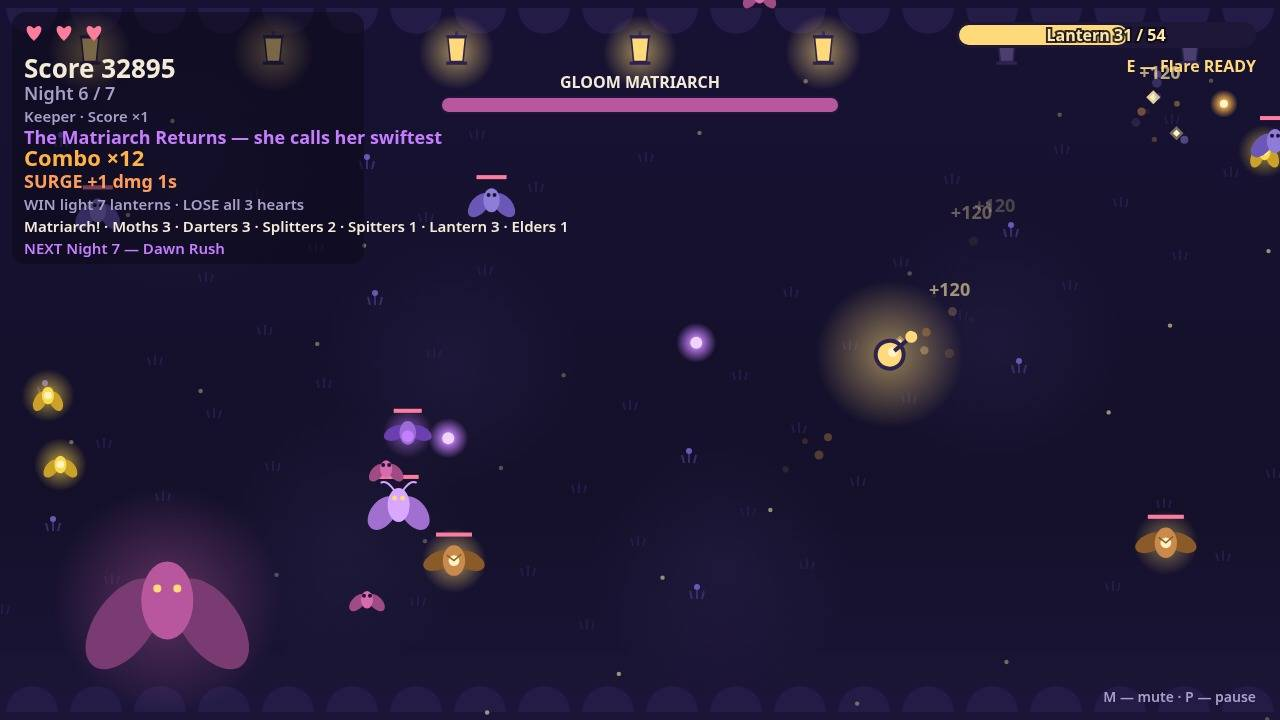
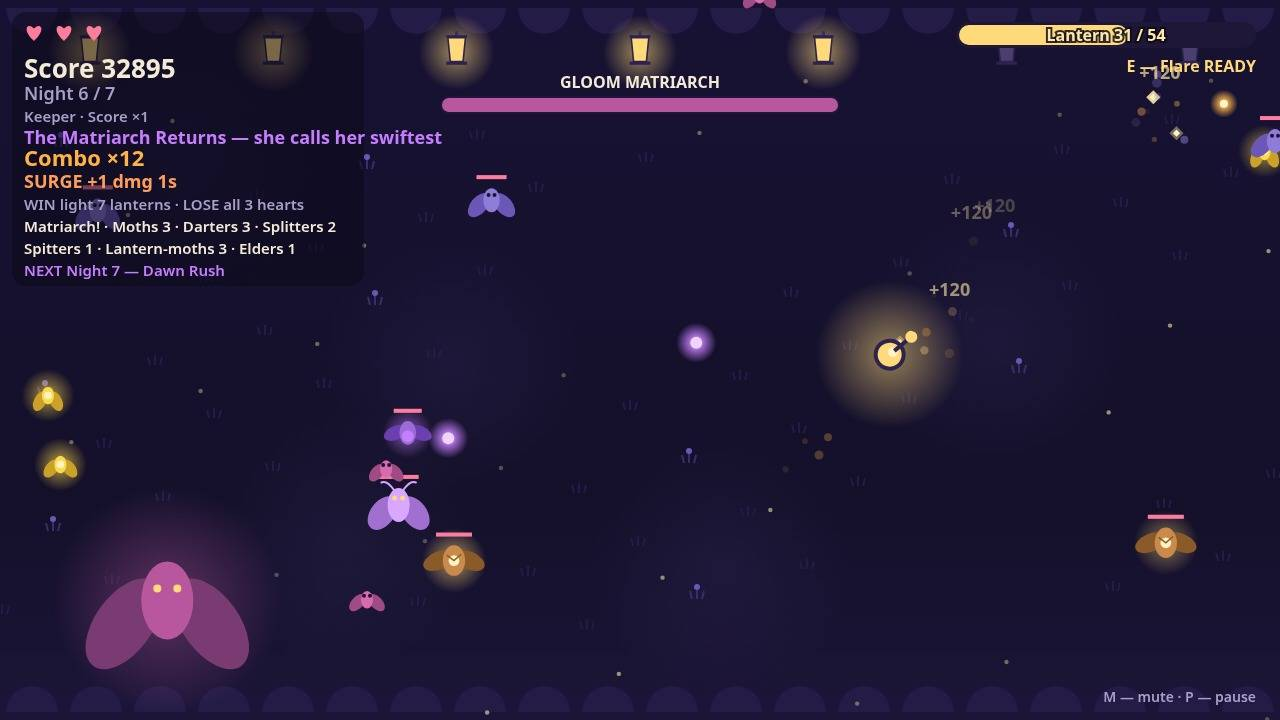
Quality round 8: feat progress on victory, census wrap + Lantern-moths, stale texts off end screens, richer staged seeds (title 168, win 172)

Changed region(s): [[0.0, 0.3361, 0.2188, 0.3972], [0.25, 0.3056, 0.4375, 0.3361]]

diff --git a/game/src/render.js b/game/src/render.js
@@ -485,7 +485,7 @@ export function createRenderer(canvas) {
     ctx.restore();
   }
 
-  function drawWorld(state, time) {
+  function drawWorld(state, time, showTexts = true) {
     drawGarden(state, time);
     for (const s of state.shards) {
       const tw = 0.7 + 0.3 * Math.sin(time * 6 + s.x);
@@ -549,12 +549,19 @@ export function createRenderer(canvas) {
       ctx.stroke();
     }
     ctx.globalAlpha = 1;
-    ctx.textAlign = 'center';
-    for (const t of state.texts) {
-      ctx.globalAlpha = Math.max(0, Math.min(1, t.life));
-      text(t.text, t.x, t.y, t.color, F(700, 18));
+    // Floating score texts belong to live play (and to the title's LIVE
+    // window, which draws the world with showTexts on). On the end screens
+    // they are stale leftovers from the moment the night cleared or dawn
+    // broke — a "FLAWLESS! +250" used to print half-clipped over the upgrade
+    // panel and the victory panel — so those screens pass showTexts=false.
+    if (showTexts) {
+      ctx.textAlign = 'center';
+      for (const t of state.texts) {
+        ctx.globalAlpha = Math.max(0, Math.min(1, t.life));
+        text(t.text, t.x, t.y, t.color, F(700, 18));
+      }
+      ctx.globalAlpha = 1;
     }
-    ctx.globalAlpha = 1;
   }
 
   function drawHearts(state) {
@@ -581,14 +588,29 @@ export function createRenderer(canvas) {
     }
   }
 
-  /** What is alive in the garden right now, by kind: "Moths 8 · Darters 2 · Wisps 1". */
-  function censusLine(state) {
-    const names = { moth: 'Moths', darter: 'Darters', wisp: 'Wisps', splitter: 'Splitters', spitter: 'Spitters', 'lantern-moth': 'Lantern', mote: 'Motes', elder: 'Elders' };
+  /** What is alive in the garden right now, by kind: "Moths 8 · Darters 2 · Wisps 1".
+   * Wrapped to lines that fit the HUD panel: the full census of a busy night
+   * measures ~545px at 15px type against a 352px panel, so it used to spill
+   * ~200px past the panel edge onto the dark field. The lantern-moth is
+   * named in full ("Lantern-moths") — the bare "Lantern" read as a count of
+   * lanterns next to the Lantern meter. */
+  function censusLines(state) {
+    const names = { moth: 'Moths', darter: 'Darters', wisp: 'Wisps', splitter: 'Splitters', spitter: 'Spitters', 'lantern-moth': 'Lantern-moths', mote: 'Motes', elder: 'Elders' };
     const counts = {};
     for (const m of state.moths) counts[m.kind] = (counts[m.kind] || 0) + 1;
     const parts = Object.keys(names).filter((k) => counts[k]).map((k) => `${names[k]} ${counts[k]}`);
     if (state.boss) parts.unshift('Matriarch!');
-    return parts.length ? parts.join(' · ') : 'Garden clear';
+    if (!parts.length) return ['Garden clear'];
+    ctx.font = F(600, 15);
+    const lines = [];
+    let cur = '';
+    for (const p of parts) {
+      const next = cur ? `${cur} · ${p}` : p;
+      if (cur && ctx.measureText(next).width > 320) { lines.push(cur); cur = p; }
+      else cur = next;
+    }
+    if (cur) lines.push(cur);
+    return lines;
   }
 
   /** What comes after this night. */
@@ -619,7 +641,7 @@ export function createRenderer(canvas) {
     if (state.orbiters.length > 0) lines.push({ str: `Orbit ×${state.orbiters.length}`, color: '#ffd97a', font: F(700, 18) });
     if (state.night === NIGHTS_TO_WIN) lines.push({ str: 'DAWN RUSH — hold the line!', color: '#ff6b6b', font: F(700, 18) });
     lines.push({ str: state.endless ? `Endless — survive · LOSE all ${state.player.maxHearts} hearts` : `WIN light 7 lanterns · LOSE all ${state.player.maxHearts} hearts`, color: PALETTE.muted, font: F(600, 15) });
-    lines.push({ str: censusLine(state), color: PALETTE.text, font: F(600, 15) });
+    for (const s of censusLines(state)) lines.push({ str: s, color: PALETTE.text, font: F(600, 15) });
     lines.push({ str: nextLine(state), color: '#c77dff', font: F(600, 15) });
     // A dim panel keeps the left HUD readable over the keeper's glow.
     fillRound(12, 12, 352, 46 + lines.length * 22 + 8, 14, 'rgba(13, 10, 26, 0.55)');
@@ -693,7 +715,7 @@ export function createRenderer(canvas) {
   }
 
   function drawTitle(state, best, records, time) {
-    drawWorld(state, time);
+    drawWorld(state, time, false);
     dim(0.55);
     // Left: the manual.
     panel(TITLE_PANEL.x, TITLE_PANEL.y, TITLE_PANEL.w, TITLE_PANEL.h, 'rgba(30, 23, 56, 0.88)');
@@ -826,7 +848,7 @@ export function createRenderer(canvas) {
   }
 
   function drawUpgrade(state, best) {
-    drawWorld(state, 0);
+    drawWorld(state, 0, false);
     dim();
     ctx.textAlign = 'center';
     const grade = state.grades[state.night] || '—';
@@ -886,7 +908,7 @@ export function createRenderer(canvas) {
   }
 
   function drawPaused(state) {
-    drawWorld(state, 0);
+    drawWorld(state, 0, false);
     dim();
     ctx.textAlign = 'center';
     text('Paused', FIELD.width / 2, 330, PALETTE.text, F(700, 52));
@@ -916,7 +938,7 @@ export function createRenderer(canvas) {
   }
 
   function drawOver(state, best) {
-    drawWorld(state, 0);
+    drawWorld(state, 0, false);
     dim();
     panel(FIELD.width / 2 - 300, 160, 600, 380);
     ctx.textAlign = 'center';
@@ -941,7 +963,7 @@ export function createRenderer(canvas) {
   }
 
   function drawWin(state, best) {
-    drawWorld(state, 0);
+    drawWorld(state, 0, false);
     dim();
     panel(FIELD.width / 2 - 430, 88, 860, 580);
     ctx.textAlign = 'center';
@@ -985,7 +1007,22 @@ export function createRenderer(canvas) {
       text(s.label, x + sw / 2, y + 22, PALETTE.muted, F(600, 12));
       text(s.value, x + sw / 2, y + 48, PALETTE.text, F(700, 22));
     });
-    // The feats: what this run earned, and what it did not.
+    // The feats: what this run earned, and what it did not. A locked feat
+    // with a number behind it shows its progress (42/50 motes, 29%/40%
+    // accuracy) instead of a bare dot — an incremental goal reads as a
+    // near-miss to chase, not a dead slot. Thresholds are the same numbers
+    // checkFeats() in world.js unlocks on.
+    const featProgress = (f) => {
+      switch (f.id) {
+        case 'nova-storm': return `${Math.min(state.novaFires, 15)}/15`;
+        case 'chain-master': return `${Math.min(state.chainHits, 30)}/30`;
+        case 'warden': return `${Math.min(state.wardBlocks, 3)}/3`;
+        case 'mote-hunter': return `${Math.min(state.motesBurst, 50)}/50`;
+        case 'orb-breaker': return `${Math.min(state.orbsShotDown, 10)}/10`;
+        case 'sharpshooter': return `${accuracy(state)}%/40%`;
+        default: return null;
+      }
+    };
     text(`FEATS ${state.feats.length} / 10`, FIELD.width / 2, 474, PALETTE.lanternGlow, F(700, 16));
     ctx.textAlign = 'left';
     FEATS.forEach((f, i) => {
@@ -994,7 +1031,8 @@ export function createRenderer(canvas) {
       const x = FIELD.width / 2 - 380 + col * 390;
       const y = 492 + row * 22;
       const got = state.feats.includes(f.id);
-      text(got ? `✓ ${f.title}` : `· ${f.title}`, x, y, got ? PALETTE.lanternGlow : PALETTE.muted, F(600, 15));
+      const prog = got ? null : featProgress(f);
+      text(got ? `✓ ${f.title}` : prog ? `· ${f.title} — ${prog}` : `· ${f.title}`, x, y, got ? PALETTE.lanternGlow : PALETTE.muted, F(600, 15));
     });
     ctx.textAlign = 'center';
     text(nextGoal(state, best, true), FIELD.width / 2, 606, PALETTE.lanternGlow, F(700, 17));

diff --git a/README.md b/README.md
@@ -74,9 +74,12 @@ screen lists all seven grades, the run counted ten ways (score, moths burst,
 accuracy, embers fired, flawless nights, Nova fires, chain hits, Surge
 triggers, orbs shot down, time), and the ten feats: First Light, Flawless Keeper, Nova
 Storm, Chain Master, Warden, Mote Hunter, Orb Breaker, Sharpshooter,
-Dawnbringer and Full Hearts. The play HUD shows the stakes (WIN light 7
-lanterns · LOSE all 3 hearts), what is alive in the garden right now by kind, and
-what the next night will be.
+Dawnbringer and Full Hearts — a feat you have not earned yet shows how
+close you came (42/50 motes, 29%/40% accuracy), so the dawn screen reads
+as a list of near-misses to chase, not dead slots. The play HUD shows the stakes (WIN light 7
+lanterns · LOSE all 3 hearts), what is alive in the garden right now by kind
+(the census wraps to a second line on a busy night instead of spilling
+past its panel), and what the next night will be.
 
 The title screen plays the game live while you read: a framed LIVE preview
 shows the keeper fighting alone under the autopilot (nearest moth, kite,
